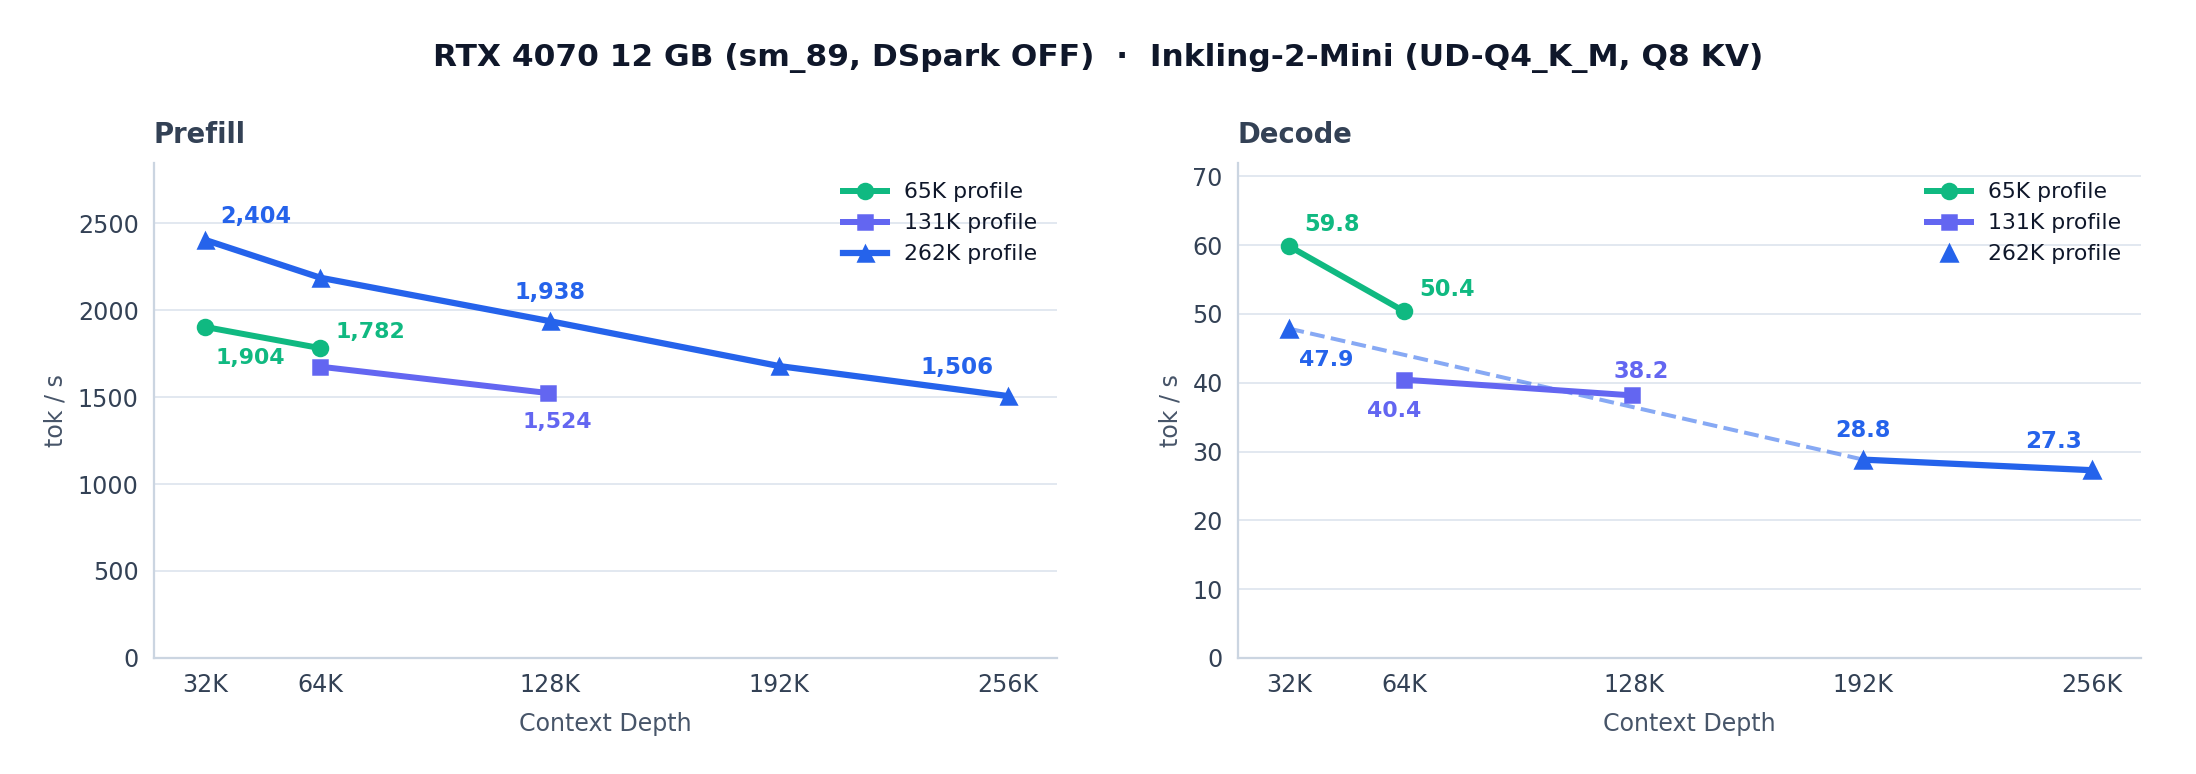
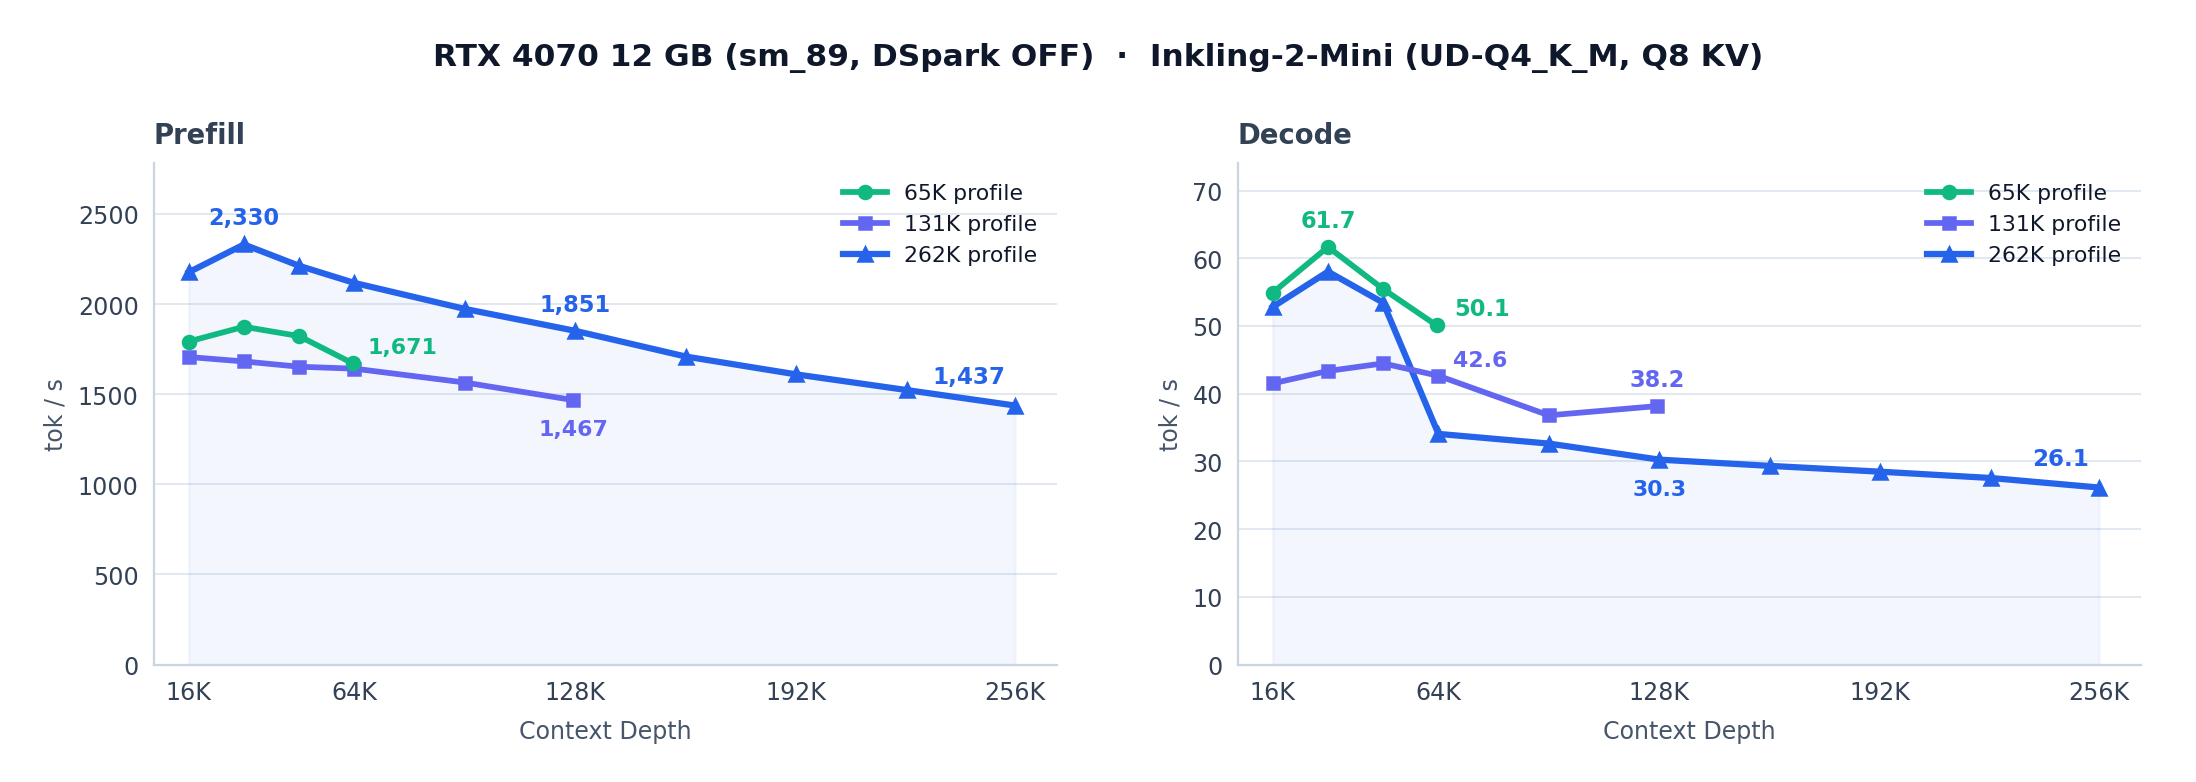
docs: re-measure RTX 4070 profiles on unified context-depth grid and update chart

diff --git a/README.md b/README.md
@@ -50,15 +50,15 @@ All numbers measured on real hardware with `Inkling-2-Mini-UD-Q4_K_M.gguf` (`--k
   <img src="docs/media/bench-rtx4070.png" width="960" alt="RTX 4070 12 GB Prefill and Decode throughput vs context depth">
 </p>
 
-| Mode (`--max-context`) | Context Depth | Prefill | Decode | Hit Rate / Notes |
+| Mode (`--max-context`) | Context Depth | Prefill | Decode | Notes |
 | --- | ---: | ---: | ---: | --- |
-| **`65536`** (`core_resident_hybrid`) | `32K` | `1,903.8 t/s` | `59.8 t/s` | 0s mid-run KV growth |
-| **`65536`** (`core_resident_hybrid`) | `65K` | **`1,782.2 t/s`** | **`50.4 t/s`** | `96.2%` expert VRAM hit |
-| **`131072`** (`core_resident_hybrid`) | `65K` | `1,675.6 t/s` | `40.4 t/s` | 0s mid-run KV growth |
-| **`131072`** (`core_resident_hybrid`) | `130.5K` | **`1,524.1 t/s`** | **`38.2 t/s`** | `91.6%` expert VRAM hit |
-| **`262144`** (`tight_hybrid`, `T=2048`) | `32K` | `2,354.1 t/s` | `43.2 t/s` | 3.30× PP / 2.27× TG vs baseline at 262K |
-| **`262144`** (`tight_hybrid`, `T=2048`) | `196K` | `1,651.1 t/s` | `27.7 t/s` | Dynamic KV growth + eviction |
-| **`262144`** (`tight_hybrid`, `T=2048`) | `262K` | **`1,506.4 t/s`** | **`27.3 t/s`** | Cumulative `0 → 262K` in `2.43 min` |
+| **`65536`** (`core_resident_hybrid`) | `32K` | `1,874.0 t/s` | **`61.7 t/s`** | `95.4%` hit, 0s mid-run KV growth |
+| **`65536`** (`core_resident_hybrid`) | `65K` | **`1,671.4 t/s`** | **`50.1 t/s`** | `92.8%` hit, 0s mid-run KV growth |
+| **`131072`** (`core_resident_hybrid`) | `64K` | `1,641.5 t/s` | `42.6 t/s` | 0s mid-run KV growth |
+| **`131072`** (`core_resident_hybrid`) | `130.5K` | **`1,467.0 t/s`** | **`38.2 t/s`** | `85.1%` hit, 0s mid-run KV growth |
+| **`262144`** (`tight_hybrid`, `T=2048`) | `32K` | `2,330.4 t/s` | `58.0 t/s` | Dynamic KV (`32K → 262K`) |
+| **`262144`** (`tight_hybrid`, `T=2048`) | `128K` | `1,851.2 t/s` | `30.3 t/s` | Post-expansion steady decode |
+| **`262144`** (`tight_hybrid`, `T=2048`) | `256K` | **`1,437.0–1,506.4 t/s`** | **`26.1–27.3 t/s`** | `3.3×` PP / `2.3×` decode vs baseline |
 
 Full RTX 4070 progression & CSV data: [2026-11-22 RTX 4070 262K Report](docs/bench-results/2026-11-22-rtx4070-inkling2-262k/README.md).
 

diff --git a/docs/bench-results/README.md b/docs/bench-results/README.md
@@ -4,7 +4,7 @@ Raw results and short reports from measurement runs, one folder per run, named b
 the Strata version, hardware and method of its own day, and none is a statement about a later release. Current numbers are in the
 [docs](../README.md) and the [README](../../README.md); how to measure is in [BENCHMARK_PROTOCOL.md](../BENCHMARK_PROTOCOL.md).
 
-This page is built by `python tools/bench_results_index.py` (`--check` fails when a folder is missing from it). 145 folders and 3 loose files, 2193 files in all.
+This page is built by `python tools/bench_results_index.py` (`--check` fails when a folder is missing from it). 145 folders and 3 loose files, 2194 files in all.
 
 
 ## 2026-09
@@ -164,7 +164,7 @@ This page is built by `python tools/bench_results_index.py` (`--check` fails whe
 | Folder | What | Files |
 | --- | --- | ---: |
 | [2026-11-14-rdna2-pcie-auto](2026-11-14-rdna2-pcie-auto/) | PcieAuto on gfx103x: the decode miss split from the CPU pool's speed (#4007) | 3 |
-| [2026-11-22-rtx4070-inkling2-262k](2026-11-22-rtx4070-inkling2-262k/) | Inkling-2-Mini on RTX 4070 (12 GB): 262K Q8KV (DSpark OFF) Optimization & Roofline | 2 |
+| [2026-11-22-rtx4070-inkling2-262k](2026-11-22-rtx4070-inkling2-262k/) | Inkling-2-Mini on RTX 4070 (12 GB): 262K Q8KV (DSpark OFF) Optimization & Roofline | 3 |
 | [2026-11-22-v100-inkling2-800k](2026-11-22-v100-inkling2-800k/) | Inkling-2-Mini on V100 (32GB): 800K (~819,000) Sweep, Kernel Optimizations & 1M Native Capacity | 3 |
 
 ## Loose files
